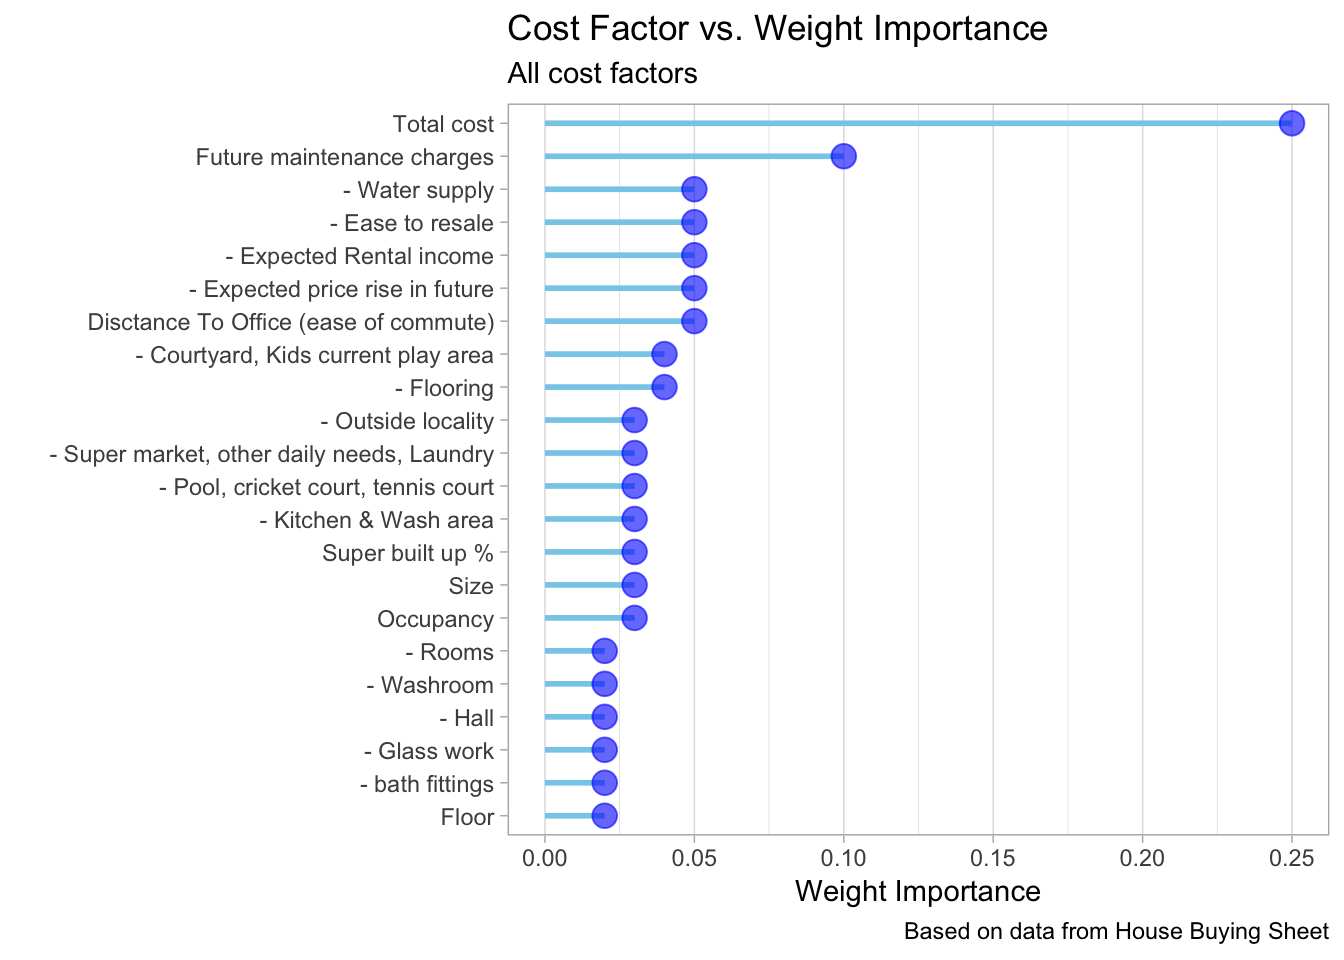
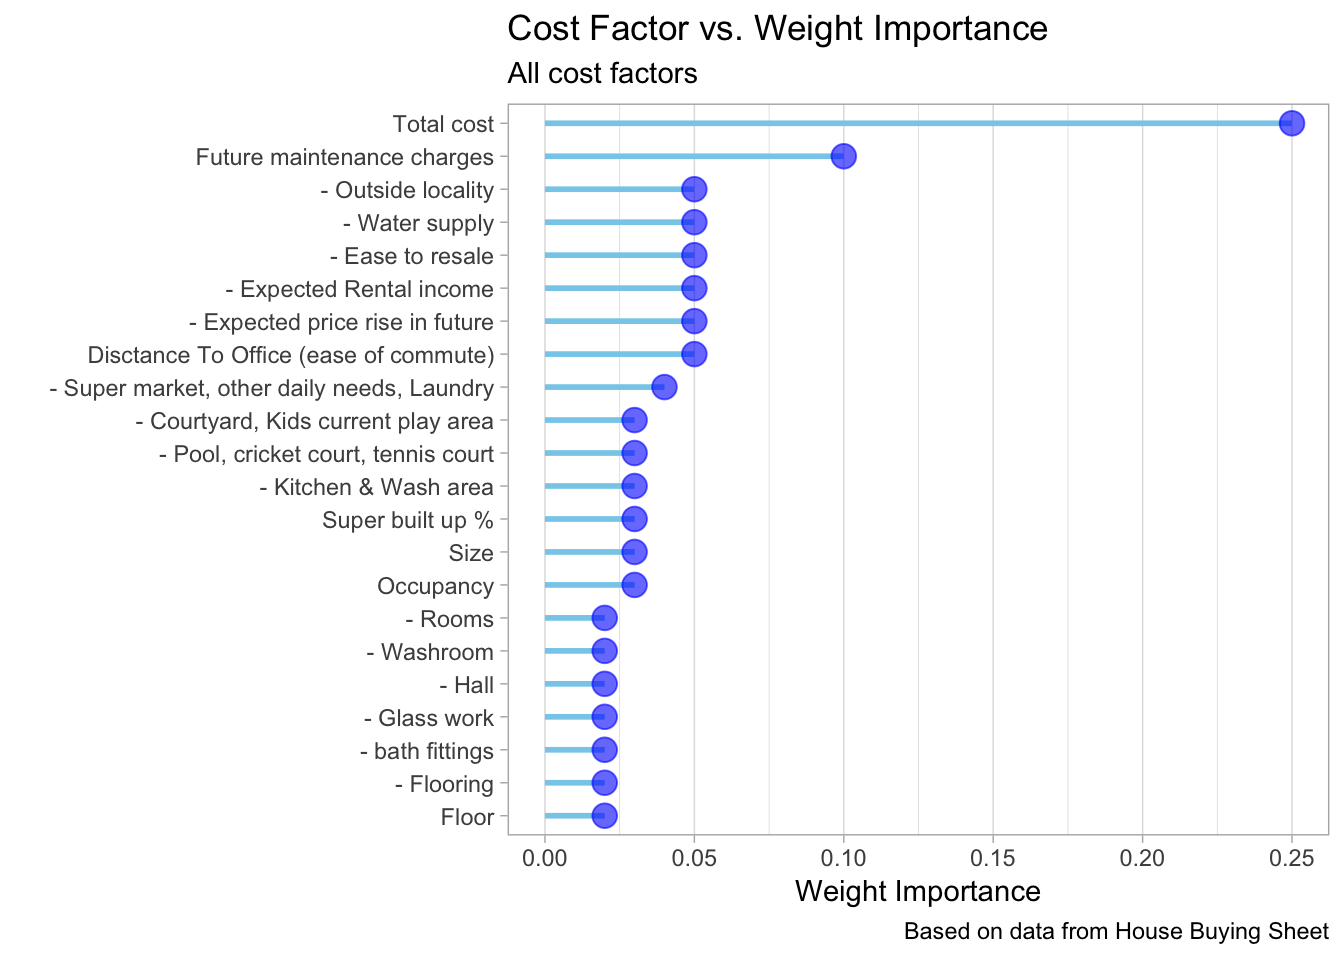
House buying in Hyd

Changed region(s): [[0.0625, 0.1875, 0.375, 0.8438], [0.4688, 0.3438, 0.5312, 0.4062], [0.4375, 0.625, 0.5, 0.6562]]

diff --git a/content/post/2019-04-30-arpit-house-buying.html b/content/post/2019-04-30-arpit-house-buying.html
@@ -53,17 +53,17 @@ df</code></pre>
 ##    &lt;chr&gt;          &lt;chr&gt;            &lt;chr&gt;            &lt;chr&gt;           
 ##  1 Rate per sft.  6,700.00         7,500.00         6,000.00        
 ##  2 All in rate    8,025.00         8,575.95         7,000.00        
-##  3 Total cost     1,28,00,000.00   1,49,05,000.00   1,20,00,000.00  
+##  3 Total cost     12,95,00,000.00  1,49,05,000.00   1,20,00,000.00  
 ##  4 Floor          18               4                8               
 ##  5 Disctance To … 8.7 KM           4.2 KM           5               
 ##  6 Number of par… two              one              &lt;NA&gt;            
 ##  7 Future mainte… 5,646.30         8,203.36         5,000.00        
 ##  8 Occupancy      End of the year  Ready            Ready           
 ##  9 Construction … &lt;NA&gt;             &lt;NA&gt;             &lt;NA&gt;            
-## 10 - Flooring     High             Very high        High            
+## 10 - Flooring     High             Supreme          High            
 ## # … with 23 more rows, and 16 more variables: `Aparna score` &lt;dbl&gt;,
 ## #   `Prestige score` &lt;chr&gt;, `Weight/Importance` &lt;chr&gt;, `Final score
-## #   Aparna` &lt;chr&gt;, `Final score Prestige` &lt;chr&gt;, X10 &lt;lgl&gt;, X11 &lt;lgl&gt;,
+## #   Aparna` &lt;chr&gt;, `Final score Prestige` &lt;chr&gt;, X10 &lt;dbl&gt;, X11 &lt;lgl&gt;,
 ## #   X12 &lt;lgl&gt;, X13 &lt;lgl&gt;, X14 &lt;lgl&gt;, X15 &lt;lgl&gt;, X16 &lt;lgl&gt;, `Lansum
 ## #   Etania` &lt;chr&gt;, `Rajpushpa atria` &lt;chr&gt;, `Golf edge` &lt;chr&gt;, `My home
 ## #   avtar` &lt;chr&gt;</code></pre>
